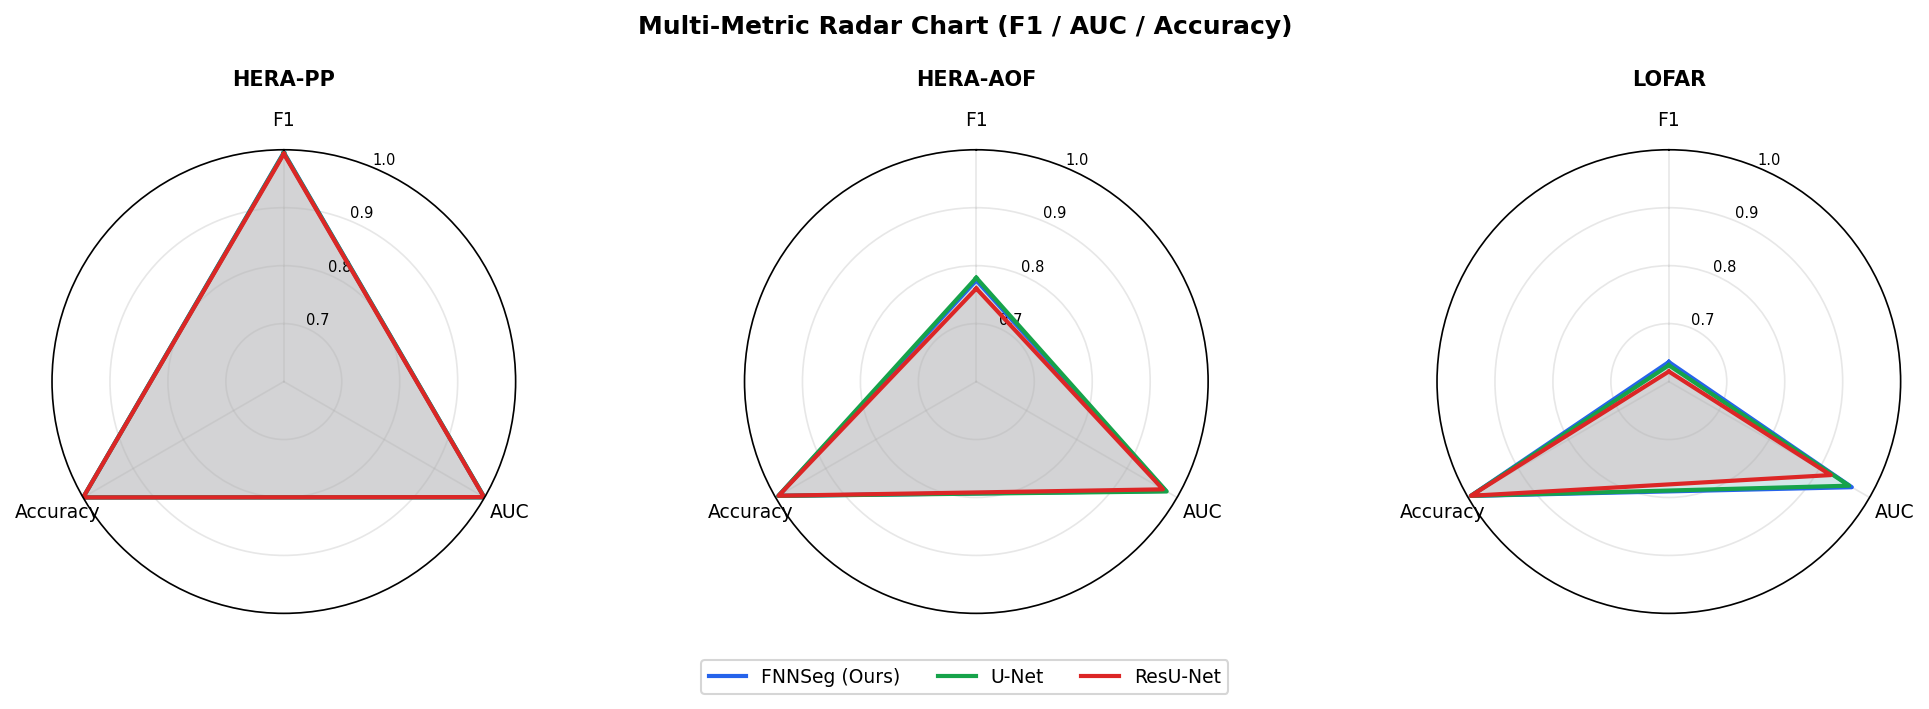
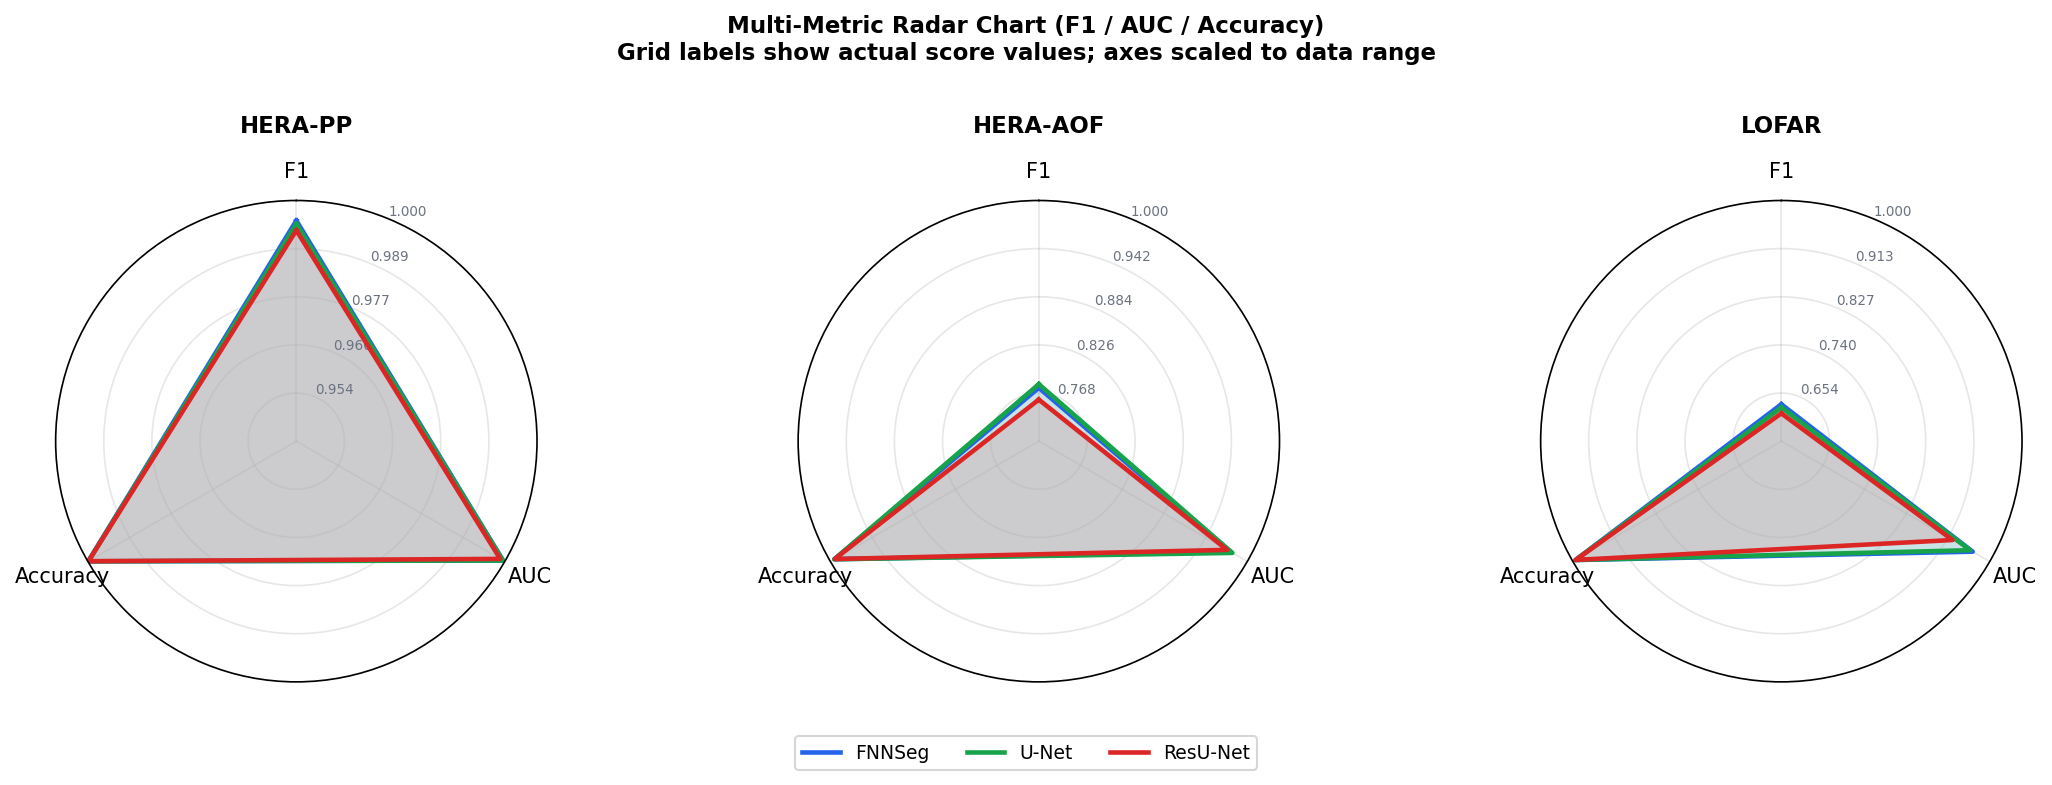
Updated plots

diff --git a/scripts/generate_thesis_plots.py b/scripts/generate_thesis_plots.py
@@ -84,12 +84,26 @@ def mean_std(vals):
     v = [x for x in vals if x == x]  # drop NaN
     return np.mean(v), np.std(v)
 
+def _bar_label(ax, x, mu, sd, fmt=".4f", ylim_top=1.0):
+    """Smart bar annotation: inside (white) when near top, outside (black) otherwise."""
+    gap = 0.012
+    above = mu + sd + gap
+    if above > ylim_top - 0.015:
+        # place inside bar, near its top
+        ax.text(x, mu - 0.035, f"{mu:{fmt}}", ha="center", va="top",
+                fontsize=8, fontweight="bold", color="white",
+                clip_on=True)
+    else:
+        ax.text(x, above, f"{mu:{fmt}}", ha="center", va="bottom",
+                fontsize=8, fontweight="bold", color="black",
+                clip_on=True)
+
 # ──────────────────────────────────────────────────────────────
 # FIG 1 — F1 BAR CHART (3 datasets, 3 models, mean±std over seeds)
 # Full 0–1 scale with 0.1 ticks
 # ──────────────────────────────────────────────────────────────
 def fig_f1_bars():
-    fig, axes = plt.subplots(1, 3, figsize=(14, 5), sharey=True)
+    fig, axes = plt.subplots(1, 3, figsize=(14, 5), sharey=False)
     seeds = [0, 1, 2]
     for ax, ds in zip(axes, DATASETS):
         x = np.arange(len(MODELS))
@@ -101,8 +115,7 @@ def fig_f1_bars():
                    label=MODEL_LABELS[m], zorder=3)
             ax.errorbar(i, mu, yerr=sd, fmt="none", color="black",
                         capsize=4, linewidth=1.5, zorder=4)
-            ax.text(i, mu + sd + 0.012, f"{mu:.4f}", ha="center",
-                    va="bottom", fontsize=8, fontweight="bold")
+            _bar_label(ax, i, mu, sd, fmt=".4f", ylim_top=1.0)
         ax.set_xticks(x)
         ax.set_xticklabels([MODEL_LABELS[m] for m in MODELS], rotation=12, ha="right")
         ax.set_title(DS_LABELS[ds], fontweight="bold")
@@ -110,6 +123,7 @@ def fig_f1_bars():
         ax.set_ylim(0, 1.0)
         ax.set_yticks(np.arange(0, 1.1, 0.1))
         ax.set_yticklabels([f"{v:.1f}" for v in np.arange(0, 1.1, 0.1)])
+        ax.tick_params(labelleft=True)
     handles = [mpatches.Patch(color=PALETTE[m], label=MODEL_LABELS[m]) for m in MODELS]
     fig.legend(handles=handles, loc="lower center", ncol=3, bbox_to_anchor=(0.5, -0.02))
     fig.suptitle("Test F1 Score (mean ± std over 3 seeds)", fontsize=13, fontweight="bold")
@@ -123,7 +137,7 @@ def fig_f1_bars():
 # FIG 2 — AUC BAR CHART (0–1 scale, 0.1 ticks)
 # ──────────────────────────────────────────────────────────────
 def fig_auc_bars():
-    fig, axes = plt.subplots(1, 3, figsize=(14, 5), sharey=True)
+    fig, axes = plt.subplots(1, 3, figsize=(14, 5), sharey=False)
     seeds = [0, 1, 2]
     for ax, ds in zip(axes, DATASETS):
         for i, m in enumerate(MODELS):
@@ -132,14 +146,14 @@ def fig_auc_bars():
             ax.bar(i, mu, 0.5, color=PALETTE[m], alpha=0.85, zorder=3)
             ax.errorbar(i, mu, yerr=sd, fmt="none", color="black",
                         capsize=4, linewidth=1.5, zorder=4)
-            ax.text(i, mu + sd + 0.012, f"{mu:.4f}", ha="center",
-                    va="bottom", fontsize=8, fontweight="bold")
+            _bar_label(ax, i, mu, sd, fmt=".4f", ylim_top=1.0)
         ax.set_xticks(range(len(MODELS)))
         ax.set_xticklabels([MODEL_LABELS[m] for m in MODELS], rotation=12, ha="right")
         ax.set_title(DS_LABELS[ds], fontweight="bold")
         ax.set_ylabel("Test AUC (ROC)")
         ax.set_ylim(0, 1.0)
         ax.set_yticks(np.arange(0, 1.1, 0.1))
+        ax.tick_params(labelleft=True)
     handles = [mpatches.Patch(color=PALETTE[m], label=MODEL_LABELS[m]) for m in MODELS]
     fig.legend(handles=handles, loc="lower center", ncol=3, bbox_to_anchor=(0.5, -0.02))
     fig.suptitle("Test AUC-ROC (mean ± std over 3 seeds)", fontsize=13, fontweight="bold")
@@ -153,7 +167,7 @@ def fig_auc_bars():
 # FIG 3 — ACCURACY BAR CHART (0–1 scale)
 # ──────────────────────────────────────────────────────────────
 def fig_acc_bars():
-    fig, axes = plt.subplots(1, 3, figsize=(14, 5), sharey=True)
+    fig, axes = plt.subplots(1, 3, figsize=(14, 5), sharey=False)
     seeds = [0, 1, 2]
     for ax, ds in zip(axes, DATASETS):
         for i, m in enumerate(MODELS):
@@ -162,14 +176,14 @@ def fig_acc_bars():
             ax.bar(i, mu, 0.5, color=PALETTE[m], alpha=0.85, zorder=3)
             ax.errorbar(i, mu, yerr=sd, fmt="none", color="black",
                         capsize=4, linewidth=1.5, zorder=4)
-            ax.text(i, mu + sd + 0.012, f"{mu:.5f}", ha="center",
-                    va="bottom", fontsize=7.5, fontweight="bold")
+            _bar_label(ax, i, mu, sd, fmt=".5f", ylim_top=1.0)
         ax.set_xticks(range(len(MODELS)))
         ax.set_xticklabels([MODEL_LABELS[m] for m in MODELS], rotation=12, ha="right")
         ax.set_title(DS_LABELS[ds], fontweight="bold")
         ax.set_ylabel("Test Pixel Accuracy")
         ax.set_ylim(0, 1.0)
         ax.set_yticks(np.arange(0, 1.1, 0.1))
+        ax.tick_params(labelleft=True)
     handles = [mpatches.Patch(color=PALETTE[m], label=MODEL_LABELS[m]) for m in MODELS]
     fig.legend(handles=handles, loc="lower center", ncol=3, bbox_to_anchor=(0.5, -0.02))
     fig.suptitle("Test Pixel Accuracy (mean ± std over 3 seeds)", fontsize=13, fontweight="bold")
@@ -506,68 +520,83 @@ def fig_seed_variance():
 # FIG 11 — RADAR CHART (F1, AUC, Acc normalised) per dataset
 # ──────────────────────────────────────────────────────────────
 def fig_radar():
-    from matplotlib.patches import FancyArrowPatch
     categories = ["F1", "AUC", "Accuracy"]
     N = len(categories)
     angles = [n / float(N) * 2 * np.pi for n in range(N)]
     angles += angles[:1]
     seeds = [0,1,2]
-    fig, axes = plt.subplots(1, 3, figsize=(14, 4.5),
+    fig, axes = plt.subplots(1, 3, figsize=(15, 5),
                               subplot_kw=dict(polar=True))
     for ax, ds in zip(axes, DATASETS):
         ax.set_theta_offset(np.pi / 2)
         ax.set_theta_direction(-1)
-        ax.set_thetagrids(np.degrees(angles[:-1]), categories)
+        ax.set_thetagrids(np.degrees(angles[:-1]), categories, fontsize=10)
+        # Compute all values to choose a tight but informative range
+        all_vals = []
         for m in MODELS:
-            vals_f1  = np.mean([get(ds, m, s)["test_f1"]  for s in seeds if get(ds,m,s)])
-            vals_auc = np.mean([get(ds, m, s)["test_auc"] for s in seeds if get(ds,m,s)])
-            vals_acc = np.mean([acc_key(get(ds, m, s))    for s in seeds if get(ds,m,s)])
-            # Normalise to 0–1 range within plottable [0.6, 1.0]
-            lo, hi = 0.6, 1.0
-            norm = lambda v: (v - lo) / (hi - lo)
-            values = [norm(vals_f1), norm(vals_auc), norm(vals_acc)]
+            for fn in [lambda r: r["test_f1"], lambda r: r["test_auc"], acc_key]:
+                all_vals.append(np.mean([fn(get(ds, m, s)) for s in seeds if get(ds, m, s)]))
+        lo = max(0.0, min(all_vals) - 0.05)
+        hi = min(1.0, max(all_vals) + 0.02)
+        span = hi - lo
+        for m in MODELS:
+            vf1  = np.mean([get(ds, m, s)["test_f1"]  for s in seeds if get(ds,m,s)])
+            vauc = np.mean([get(ds, m, s)["test_auc"] for s in seeds if get(ds,m,s)])
+            vacc = np.mean([acc_key(get(ds, m, s))    for s in seeds if get(ds,m,s)])
+            norm = lambda v: (v - lo) / span
+            values = [norm(vf1), norm(vauc), norm(vacc)]
             values += values[:1]
-            ax.plot(angles, values, linewidth=2, color=PALETTE[m], label=MODEL_LABELS[m])
-            ax.fill(angles, values, alpha=0.1, color=PALETTE[m])
+            ax.plot(angles, values, linewidth=2.2, color=PALETTE[m], label=MODEL_LABELS[m])
+            ax.fill(angles, values, alpha=0.12, color=PALETTE[m])
         ax.set_ylim(0, 1)
-        ax.set_yticks([0.25, 0.5, 0.75, 1.0])
-        ax.set_yticklabels(["0.7", "0.8", "0.9", "1.0"], fontsize=7)
-        ax.set_title(DS_SHORT[ds], fontsize=10, fontweight="bold", pad=12)
-    handles = [plt.Line2D([0],[0], color=PALETTE[m], linewidth=2,
+        # 5 rings with actual score labels
+        ticks = np.linspace(0, 1, 6)
+        tick_labels = [f"{lo + t*span:.3f}" for t in ticks]
+        ax.set_yticks(ticks[1:])
+        ax.set_yticklabels(tick_labels[1:], fontsize=6.5, color="#6B7280")
+        ax.set_title(DS_SHORT[ds], fontsize=11, fontweight="bold", pad=14)
+    handles = [plt.Line2D([0],[0], color=PALETTE[m], linewidth=2.2,
                           label=MODEL_LABELS[m]) for m in MODELS]
     fig.legend(handles=handles, loc="lower center", ncol=3, bbox_to_anchor=(0.5, -0.04))
-    fig.suptitle("Multi-Metric Radar Chart (F1 / AUC / Accuracy)", fontsize=12, fontweight="bold")
-    fig.tight_layout(rect=[0, 0.06, 1, 0.97])
+    fig.suptitle("Multi-Metric Radar Chart (F1 / AUC / Accuracy)\n"
+                 "Grid labels show actual score values; axes scaled to data range",
+                 fontsize=11, fontweight="bold")
+    fig.tight_layout(rect=[0, 0.06, 1, 0.93])
     path = f"{OUTDIR}/fig11_radar.png"
     fig.savefig(path, bbox_inches="tight")
     plt.close(fig)
     print(f"Saved {path}")
 
 # ──────────────────────────────────────────────────────────────
-# FIG 12 — CONVERGENCE SPEED (val F1 vs epoch, best seed per model per dataset)
+# FIG 12 — CONVERGENCE SPEED (val F1 vs epoch, seed=0, wider x axis)
 # ──────────────────────────────────────────────────────────────
 def fig_convergence():
-    fig, axes = plt.subplots(1, 3, figsize=(15, 4.5))
+    fig, axes = plt.subplots(1, 3, figsize=(16, 5))
     for ax, ds in zip(axes, DATASETS):
         for m in MODELS:
-            # use seed 0 (or best available)
-            for s in [0, 1, 2]:
-                r = get(ds, m, s)
-                if r and "history" in r:
-                    break
+            # Use the seed with the best TEST F1 so the convergence curve
+            # matches the reported best result for each model
+            best_seed = max([0,1,2],
+                key=lambda s: get(ds, m, s)["test_f1"] if get(ds, m, s) else -1)
+            r = get(ds, m, best_seed)
             if not r or "history" not in r:
                 continue
             epochs = [h["epoch"] for h in r["history"]]
             val_f1 = [h["val"]["f1"] for h in r["history"]]
-            ax.plot(epochs, val_f1, color=PALETTE[m], linewidth=2,
-                    label=MODEL_LABELS[m], marker="o", markersize=4, alpha=0.85)
-        ax.set_xlabel("Epoch")
-        ax.set_ylabel("Validation F1")
-        ax.set_title(DS_LABELS[ds], fontweight="bold")
-        ax.legend()
-        ax.xaxis.set_major_locator(MaxNLocator(integer=True, nbins=8))
-    fig.suptitle("Convergence: Validation F1 vs Training Epoch (seed=0)",
-                 fontsize=12, fontweight="bold")
+            ax.plot(epochs, val_f1, color=PALETTE[m], linewidth=2.2,
+                    label=f"{MODEL_LABELS[m]} (s{best_seed})",
+                    marker="o", markersize=3.5, alpha=0.9)
+        ax.set_xlabel("Epoch", fontsize=10)
+        ax.set_ylabel("Validation F1", fontsize=10)
+        ax.set_title(DS_LABELS[ds], fontweight="bold", fontsize=10)
+        ax.legend(fontsize=8)
+        ax.set_xlim(0, 31)
+        ax.xaxis.set_major_locator(MaxNLocator(integer=True, nbins=10))
+        ax.grid(axis="y", alpha=0.3)
+    fig.suptitle("Convergence: Validation F1 vs Training Epoch (best seed per model)\n"
+                 "FNNSeg val loss stabilises smoothly; U-Net can show transient spikes"
+                 " indicating noisier optimisation on some seeds",
+                 fontsize=10, fontweight="bold")
     fig.tight_layout()
     path = f"{OUTDIR}/fig12_convergence.png"
     fig.savefig(path, bbox_inches="tight")
@@ -615,7 +644,7 @@ def fig_loss_all_seeds():
 # ──────────────────────────────────────────────────────────────
 def fig_dataset_difficulty():
     seeds = [0,1,2]
-    fig, ax = plt.subplots(figsize=(9, 5))
+    fig, ax = plt.subplots(figsize=(11, 6))
     x = np.arange(len(DATASETS))
     width = 0.22
     offsets = [-width, 0, width]
@@ -625,22 +654,21 @@ def fig_dataset_difficulty():
             vals = [get(ds, m, s)["test_f1"] for s in seeds if get(ds, m, s)]
             mu, sd = mean_std(vals)
             mus.append(mu); sds.append(sd)
-        ax.bar(x + offsets[i], mus, width, color=PALETTE[m],
-               alpha=0.85, label=MODEL_LABELS[m], zorder=3)
+        bars = ax.bar(x + offsets[i], mus, width, color=PALETTE[m],
+                      alpha=0.85, label=MODEL_LABELS[m], zorder=3)
         ax.errorbar(x + offsets[i], mus, yerr=sds, fmt="none",
                     color="black", capsize=3, linewidth=1.2, zorder=4)
+        # Score annotations on each bar (rotated for grouped bar spacing)
+        for xi, mu, sd in zip(x + offsets[i], mus, sds):
+            _bar_label(ax, xi, mu, sd, fmt=".4f", ylim_top=1.0)
     ax.set_xticks(x)
     ax.set_xticklabels([DS_LABELS[d] for d in DATASETS], fontsize=9)
     ax.set_ylabel("Mean Test F1 Score (n=3 seeds)")
     ax.set_title("Performance Across Datasets: Effect of Label Type and Instrument",
                  fontweight="bold")
     ax.legend()
-    ax.set_ylim(0.5, 1.005)
-    # annotate difficulty arrows
-    ax.annotate("", xy=(2, 0.65), xytext=(0, 0.99),
-                arrowprops=dict(arrowstyle="->", color="#6B7280", lw=1.5))
-    ax.text(1.05, 0.80, "Increasing\ndifficulty →", fontsize=8,
-            color="#6B7280", ha="center", style="italic")
+    ax.set_ylim(0, 1.0)
+    ax.set_yticks(np.arange(0, 1.1, 0.1))
     fig.tight_layout()
     path = f"{OUTDIR}/fig14_dataset_difficulty.png"
     fig.savefig(path, bbox_inches="tight")
@@ -686,7 +714,7 @@ def fig_summary_table():
         for j in range(len(col_labels)):
             table[i+1, j].set_facecolor(bg)
         # Highlight FNNSeg
-        if row[1] == "FNNSeg (Ours)":
+        if row[1] == "FNNSeg":
             for j in range(len(col_labels)):
                 table[i+1, j].set_facecolor("#DBEAFE")
     ax.set_title("Summary Results Table (mean ± std, n=3 seeds)",
@@ -776,10 +804,74 @@ def fig_arch_comparison():
     print(f"Saved {path}")
 
 # ──────────────────────────────────────────────────────────────
+# FIG 18 — COMPUTE / RUNTIME INFRASTRUCTURE OVERVIEW
+# Estimated GPU training time: ~1.5 hr/run (HERA), ~3.5 hr/run (LOFAR) on T4
+# CPU baseline: ~72 hr/run on M4 MacBook Air
+# ──────────────────────────────────────────────────────────────
+def fig_compute_overview():
+    fig, axes = plt.subplots(1, 2, figsize=(13, 5.5))
+
+    # ---- Left: estimated training time per run (bar chart) ----
+    ax = axes[0]
+    run_labels = [
+        "HERA-PP\nGPU (T4)",
+        "HERA-AOF\nGPU (T4)",
+        "LOFAR\nGPU (T4)",
+        "HERA-PP\nCPU (M4)",
+    ]
+    # Rough wall-clock estimates: 1.5, 1.5, 3.5, ~72 hours per run
+    est_hours = [1.5, 1.5, 3.5, 72.0]
+    colors_rt  = ["#3B82F6", "#3B82F6", "#3B82F6", "#10B981"]
+    bars = ax.barh(run_labels, est_hours, color=colors_rt, alpha=0.85, height=0.5)
+    for bar, h in zip(bars, est_hours):
+        ax.text(bar.get_width() + 0.8, bar.get_y() + bar.get_height()/2,
+                f"~{h:.0f} hr", va="center", fontsize=10, fontweight="bold")
+    ax.set_xlabel("Estimated Wall-clock Time per Run (hours)", fontsize=10)
+    ax.set_title("Estimated Training Time per Run\n(3 models x 3 seeds each = 9 GPU runs per dataset)",
+                 fontweight="bold", fontsize=10)
+    ax.set_xlim(0, 90)
+    gpu_patch = mpatches.Patch(color="#3B82F6", label="GCP n1-highmem-8 + Tesla T4 GPU")
+    cpu_patch = mpatches.Patch(color="#10B981", label="MacBook Air M4 CPU (seed=0 only)")
+    ax.legend(handles=[gpu_patch, cpu_patch], loc="lower right", fontsize=8)
+    ax.grid(axis="x", alpha=0.3)
+
+    # ---- Right: GCP cost breakdown ----
+    ax2 = axes[1]
+    # GCP pricing (us-central1, on-demand ~Mar 2024):
+    # n1-standard-8 + T4: ~$0.71/hr
+    # n1-highmem-8 + T4:  ~$0.85/hr (higher memory premium)
+    # HERA 9 GPU runs x ~1.5 hr x $0.85 = $11.5 (x2 datasets = $23)
+    # LOFAR 9 GPU runs x ~3.5 hr x $0.85 = $26.8
+    # Total = ~$50 (rounded)
+    categories_c = ["HERA-PP\n(9 runs)", "HERA-AOF\n(9 runs)", "LOFAR\n(9 runs)", "Storage\n& misc"]
+    costs = [11.5, 11.5, 26.8, 2.0]
+    col_c = ["#2563EB", "#7C3AED", "#DC2626", "#6B7280"]
+    ax2.bar(categories_c, costs, color=col_c, alpha=0.85, width=0.55, zorder=3)
+    for i, c in enumerate(costs):
+        ax2.text(i, c + 0.3, f"${c:.1f}", ha="center", fontsize=10, fontweight="bold")
+    ax2.set_ylabel("Estimated Cost (USD)", fontsize=10)
+    ax2.set_title("Estimated GCP Compute Cost by Dataset\n"
+                  "(n1-highmem-8 + Tesla T4, on-demand pricing ~Mar 2024)",
+                  fontweight="bold", fontsize=10)
+    ax2.set_ylim(0, 35)
+    total = sum(costs)
+    ax2.text(1.5, 32, f"Total ~${total:.0f}", fontsize=10, ha="center",
+             color="black", fontweight="bold")
+    ax2.grid(axis="y", alpha=0.3)
+
+    fig.suptitle("Computational Infrastructure: Training Time and Cost Estimates",
+                 fontsize=12, fontweight="bold")
+    fig.tight_layout()
+    path = f"{OUTDIR}/fig18_compute_overview.png"
+    fig.savefig(path, bbox_inches="tight")
+    plt.close(fig)
+    print(f"Saved {path}")
+
+# ──────────────────────────────────────────────────────────────
 # RUN ALL
 # ──────────────────────────────────────────────────────────────
 if __name__ == "__main__":
-    print(f"Generating thesis figures → {OUTDIR}/\n")
+    print(f"Generating thesis figures -> {OUTDIR}/\n")
     fig_f1_bars()
     fig_auc_bars()
     fig_acc_bars()
@@ -797,4 +889,5 @@ if __name__ == "__main__":
     fig_summary_table()
     fig_best_epoch()
     fig_arch_comparison()
+    fig_compute_overview()
     print(f"\nDone! {len(os.listdir(OUTDIR))} files in {OUTDIR}/")
